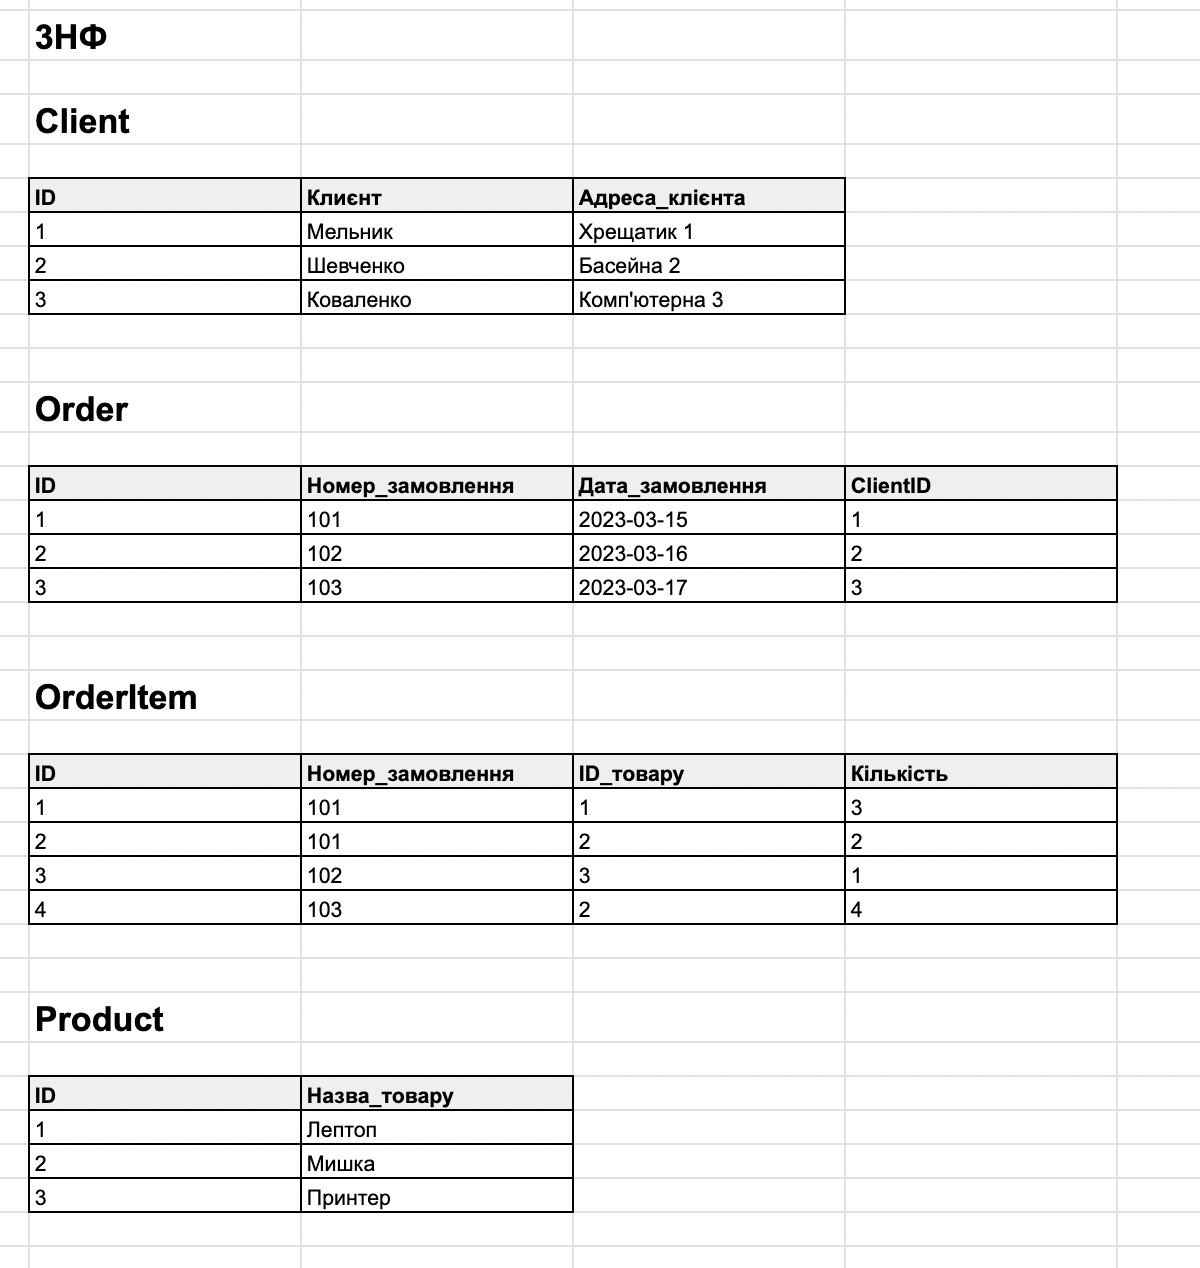
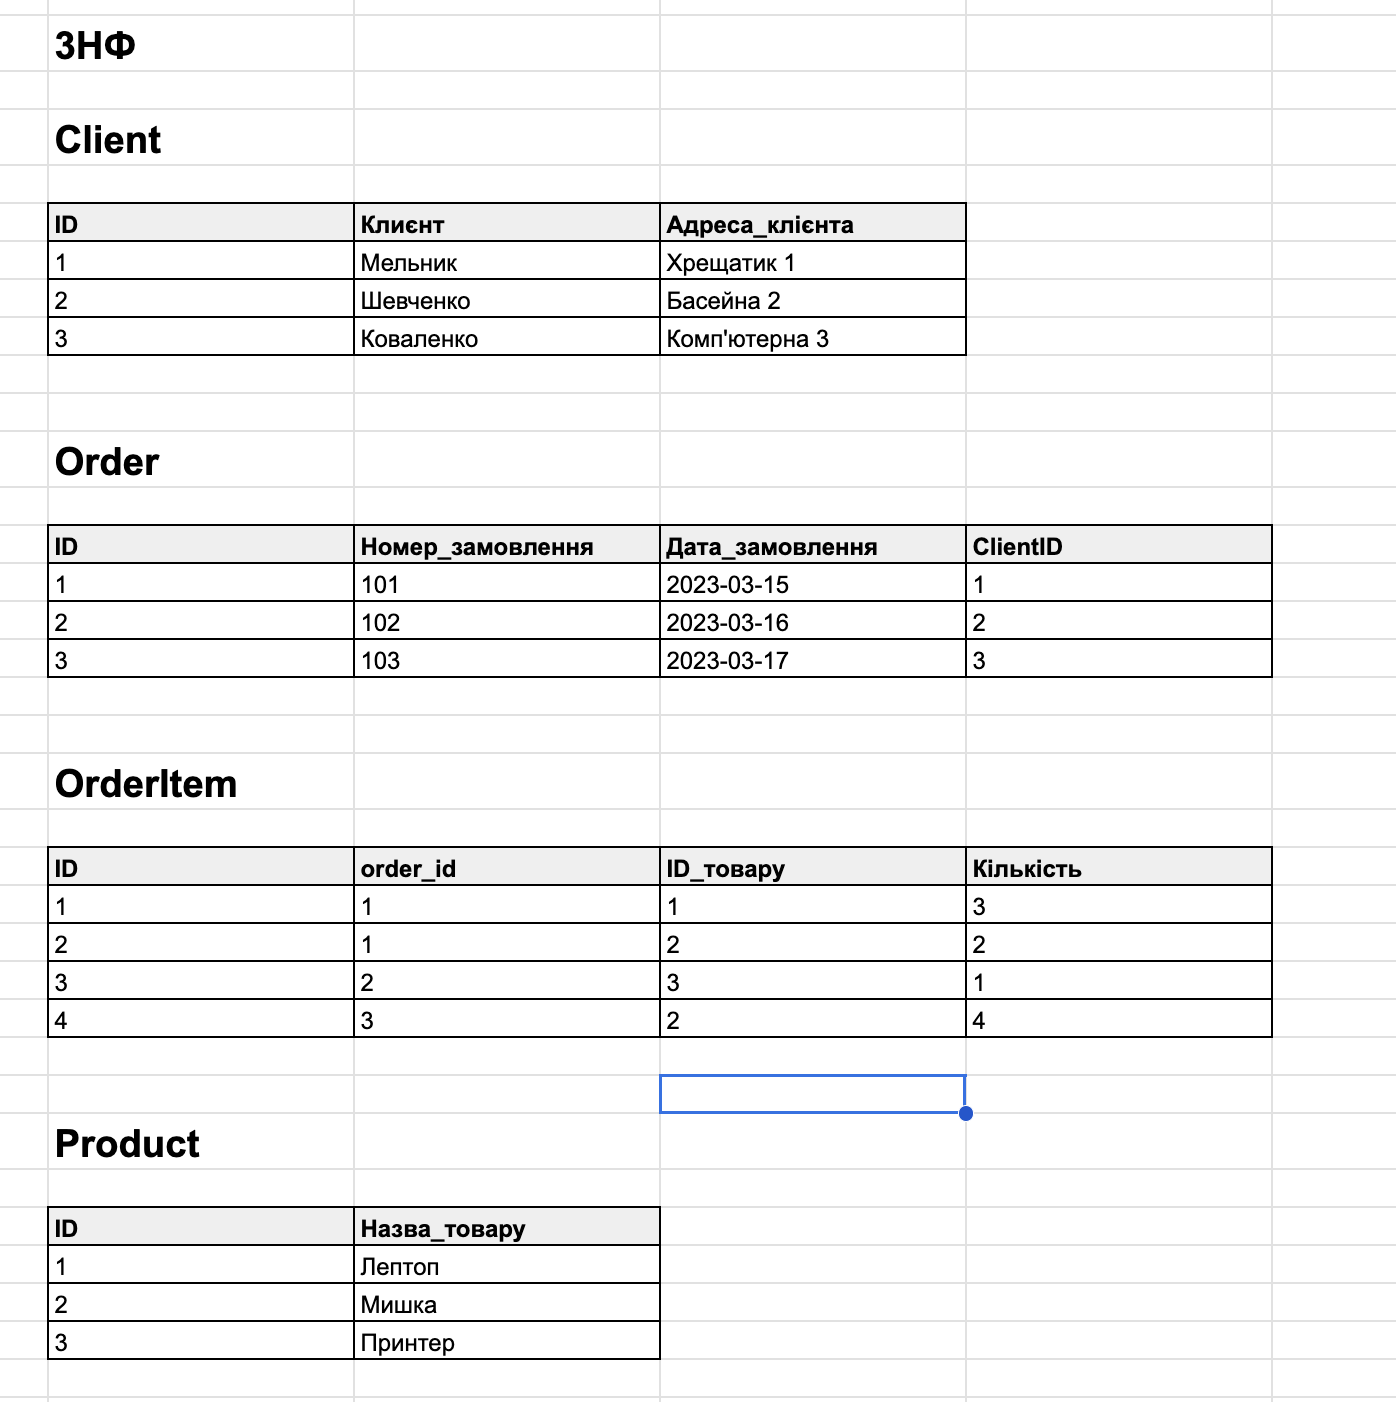
Refactored database schema: - Changed order_number to VARCHAR for flexible order numbering. - Updated quantity fields to DECIMAL for fractional values. - Modified relationships to use id as foreign key instead of order_number.

Changed region(s): [[0.0, 0.0, 1.0, 1.0]]

diff --git a/Readme.md b/Readme.md
@@ -64,12 +64,12 @@
 
 ### OrderItem
 
-| ID  | Номер_замовлення | ID_товару | Кількість |
-| --- | ---------------- | --------- | --------- |
-| 1   | 101              | 1         | 3         |
-| 2   | 101              | 2         | 2         |
-| 3   | 102              | 3         | 1         |
-| 4   | 103              | 2         | 4         |
+| ID  | order_id | ID_товару | Кількість |
+| --- | -------- | --------- | --------- |
+| 1   | 1        | 1         | 3         |
+| 2   | 1        | 2         | 2         |
+| 3   | 2        | 3         | 1         |
+| 4   | 33       | 2         | 4         |
 
 ### Product
 
